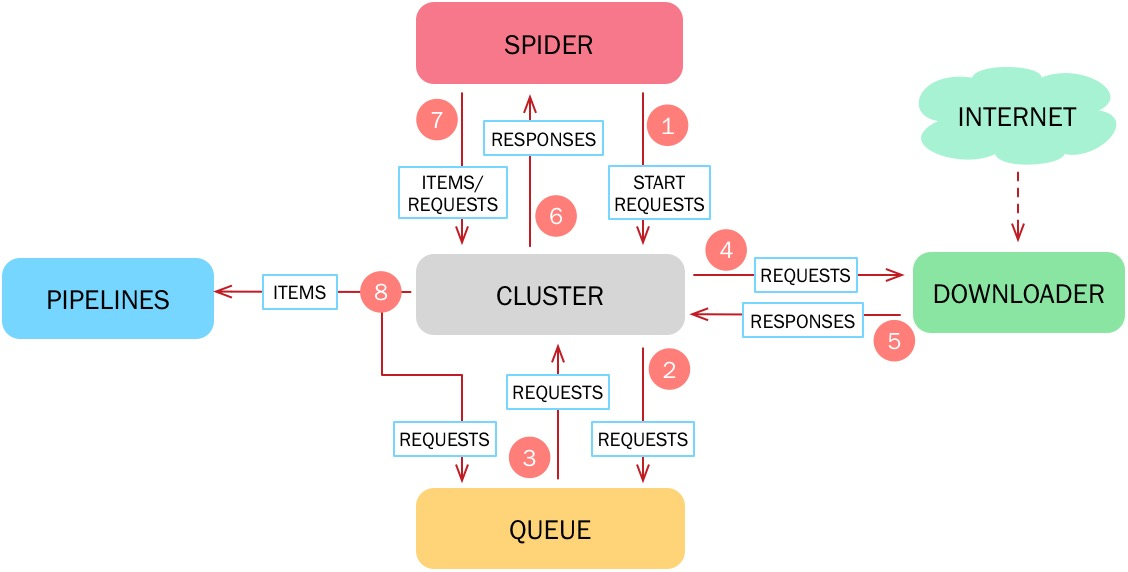
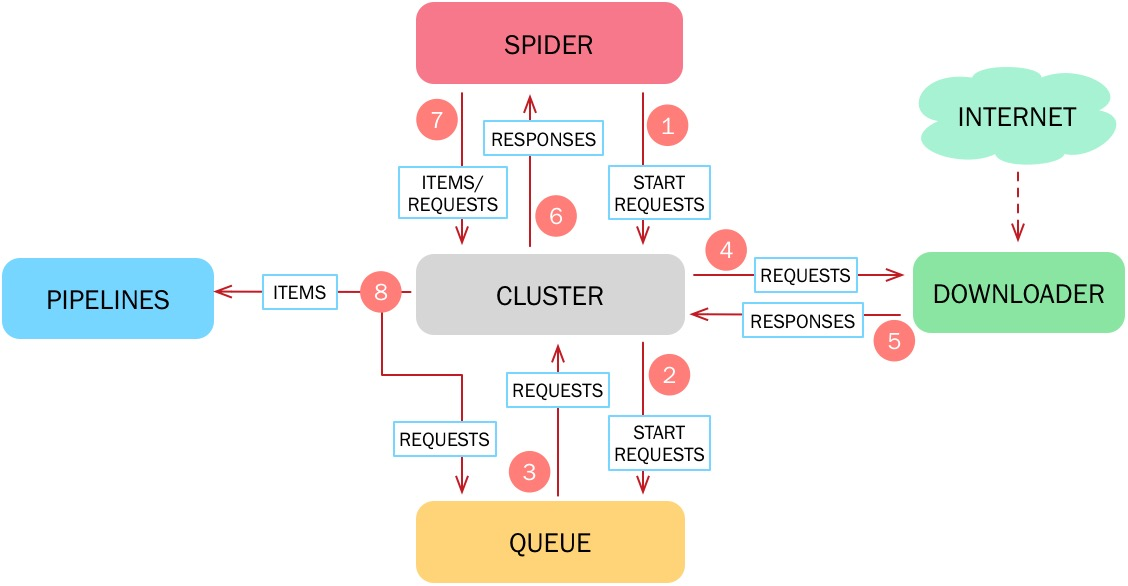
update docs

diff --git a/examples/async_generator_spider.py b/examples/async_generator_spider.py
@@ -3,10 +3,12 @@
 from xpaw import Spider, HttpRequest, Selector
 from xpaw.run import run_spider
 
+
 class AsyncGeneratorSpider(Spider):
     """
     Need Python 3.6+
     """
+
     async def start_requests(self):
         yield HttpRequest("http://quotes.toscrape.com/", callback=self.parse)
 
@@ -15,6 +17,7 @@ class AsyncGeneratorSpider(Spider):
         tags = selector.xpath("//div[contains(@class, 'tags-box')]//a").text
         self.log("Top ten tags: %s", tags)
         yield HttpRequest("http://quotes.toscrape.com/", callback=self.parse)
+
 
 if __name__ == '__main__':
     run_spider(AsyncGeneratorSpider, log_level="DEBUG")

diff --git a/tests/test_commands.py b/tests/test_commands.py
@@ -50,7 +50,6 @@ def test_init(tmpdir, capsys):
     logging.getLogger('xpaw').handlers.clear()
 
 
-
 def test_init_no_project_dir(capsys):
     with pytest.raises(SystemExit) as excinfo:
         main(argv=['xpaw', 'init'])

diff --git a/docs/tutorial.rst b/docs/tutorial.rst
@@ -117,7 +117,7 @@ Writing our Spider
 Generation of start requests
 ^^^^^^^^^^^^^^^^^^^^^^^^^^^^
 
-xpaw在加载spider时会调用 ``start_requests`` 成员函数来获取整个爬取过程的入口链接，我们需要在该函数中生成入口链接并用HttpRequest进行封装。
+xpaw在加载spider后会调用其 ``start_requests`` 函数来获取整个爬取过程的入口链接，我们需要在该函数中生成入口链接并用HttpRequest进行封装。
 在这个任务中入口链接选择网站的首页即可。
 HttpRequest的 ``callback`` 用来指定该request对应的response由哪个函数来处理。
 
@@ -253,11 +253,11 @@ Storing the Scraped Data
             with open(join(home_dir, 'quotes.json'), 'w') as f:
                 json.dump(self.data, f, ensure_ascii=False, indent=4)
 
-对于spider生成的item，xpaw会调用pipeline的 ``handle_item`` 成员函数对其进行处理，我们在该函数中将数据暂存到一个list中。
-当爬取工作完成后，xpaw会调用pipeline的 ``close`` 成员函数 (如果存在的话)，我们借机在该函数中将所有爬取到的数据以json的格式写入到文件中。
+对于spider生成的item，xpaw会调用pipeline的 ``handle_item`` 函数对其进行处理，我们在该函数中将数据暂存到一个list中。
+当爬取工作完成后，xpaw会调用pipeline的 ``close`` 函数 (如果存在的话)，我们借机在该函数中将所有爬取到的数据以json的格式写入到文件中。
 
-其实我们也可以选择在spider的 ``close`` 成员函数中完成数据的存储，这样甚至不用定义item和pipeline。
-但我们更推荐在pipeline中完成数据的存储，这样在复杂的工程中会使得逻辑更为清晰。
+其实我们也可以选择在spider的 ``close`` 函数中完成数据的存储，这样甚至不用定义item和pipeline。
+不过如果是在一些较为复杂的工程中，我们还是更推荐在pipeline中实现数据的存储，这样会使得逻辑更为清晰。
 
 How to Run our Project
 ----------------------

diff --git a/docs/architecture.rst b/docs/architecture.rst
@@ -3,13 +3,42 @@
 Architecture Overview
 =====================
 
+这里我们会对xpaw的结构进行简要的介绍。
+
+首先我们会给出爬虫运行过程中的数据流图，接着我们会对数据流中呈现的各个组件进行简要的介绍。
 
 Data Flow
 ---------
 
 .. image:: _static/data_flow.png
 
+数据流以cluster为核心，并由cluster进行控制和驱动:
+
+1. cluster从spider中获取初始的requests。
+2. cluster将得到的初始的requests放入到queue中。
+3. cluster不停地轮询queue并从中获取待处理的request。
+4. cluster将request交由downloader发起实际的请求。
+5. downloader将请求得到response返回给cluster。
+6. cluster将得到的response交由spider中指定的处理函数进行处理。
+7. spider处理response并返回提取的items和新的requests。
+8. cluster将得到的items交由pipelines做进一步处理，将得到的requests继续放入到queue中。
+
+爬虫会持续运行直到所有产生的requests都被处理完且不再产生新的requests为止。
 
 Components
 ----------
 
+Cluster
+^^^^^^^
+
+Queue
+^^^^^
+
+Downloader
+^^^^^^^^^^
+
+Spider
+^^^^^^
+
+Pipeline
+^^^^^^^^
